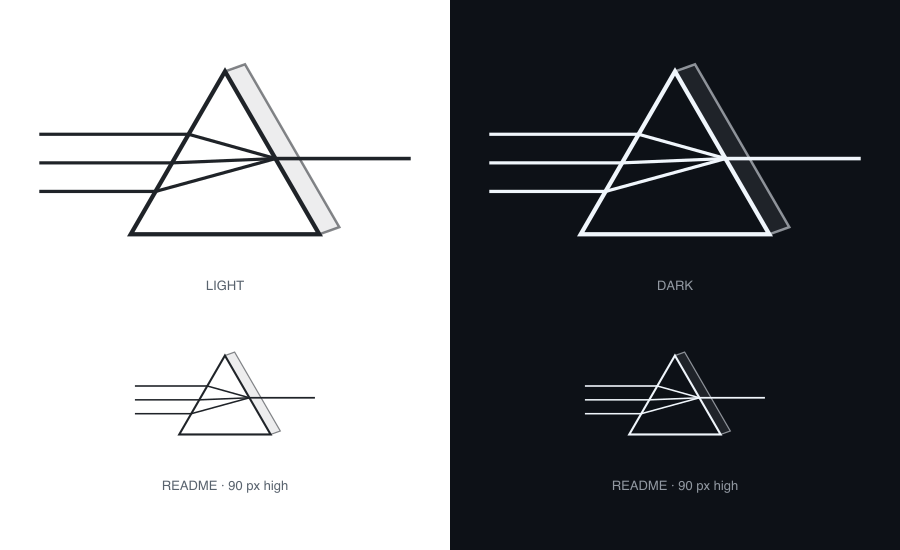
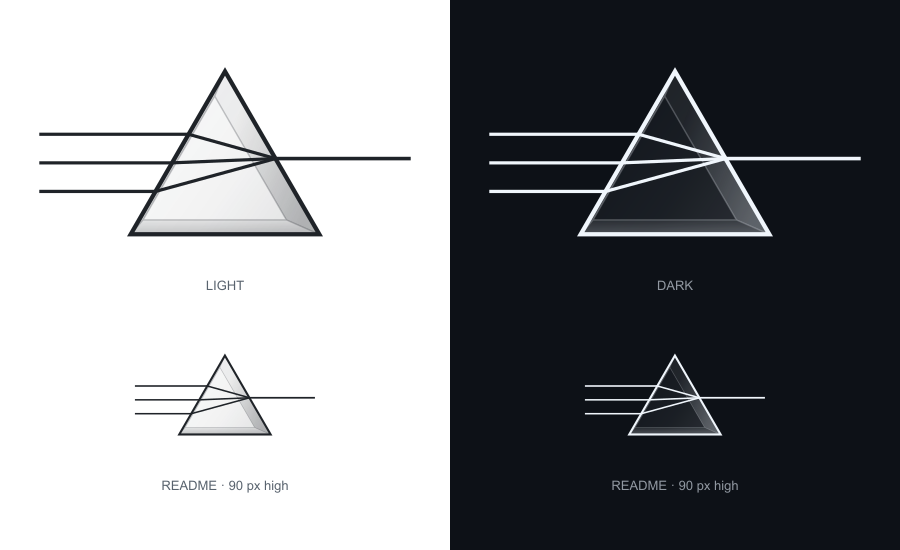
docs: shade prism interior; verify both themes at 90 px

diff --git a/docs/assets/brand/README.md b/docs/assets/brand/README.md
@@ -4,8 +4,8 @@ Redrawn directly as SVG on 2026-09-09 after Ada supplied prism references. The l
 simple end-on triangular profile shown in the
 [Newton artwork](https://deltavcreations.com/portfolio/prism-light-spectrum-artwork-newton/).
 Three incoming rays meet at the right face and continue as one outgoing ray, following Ada's
-requested focus direction. The front interior is transparent and every segment is straight.
-A shallow side face adds depth, with a faint fill and lighter rear edges.
+requested focus direction. Translucent interior faces and a faint rear triangle give the
+prism volume within its original silhouette. Every outline and ray segment is straight.
 
 ## Files and construction
 
@@ -22,10 +22,21 @@ intersection with the left side. The shared exit is the intersection of the righ
 with y = 158. The SVG contains straight line segments only. Its viewBox preserves the
 drawing's proportions as it scales.
 
-The rear triangle is translated by (28, -10). Only the right side face is visible: its
-joining edges are parallel, and its rear edge is parallel to the front edge. The side
-fill uses 8% ink opacity and its far edges use 55%. The accepted front profile and all
-ray paths are unchanged.
+The rear triangle recedes toward the vanishing point (240, 180) at 76% of the front
+size. Its vertices are (285.6, 70.56), (185.28, 243.84), and (385.92, 243.84). The
+three connecting edges point toward the same vanishing point. Shaded left, right, and
+base faces stay inside the front outline, with 25% ink opacity on the rear edges.
+Linear opacity gradients give the interior a glass-like finish; the surrounding
+background remains transparent. The accepted front profile and all ray paths are
+unchanged.
+
+The PNG export can be reproduced from the repository root with:
+
+```sh
+rsvg-convert --width 1164 --height 540 \
+  --output docs/assets/brand/focal-prism-transparent.png \
+  docs/assets/brand/focal-prism.svg
+```
 
 The root README selects a theme with a `<picture>` element and links to the preview.
 The artwork has no external images, fonts, or scripts.
